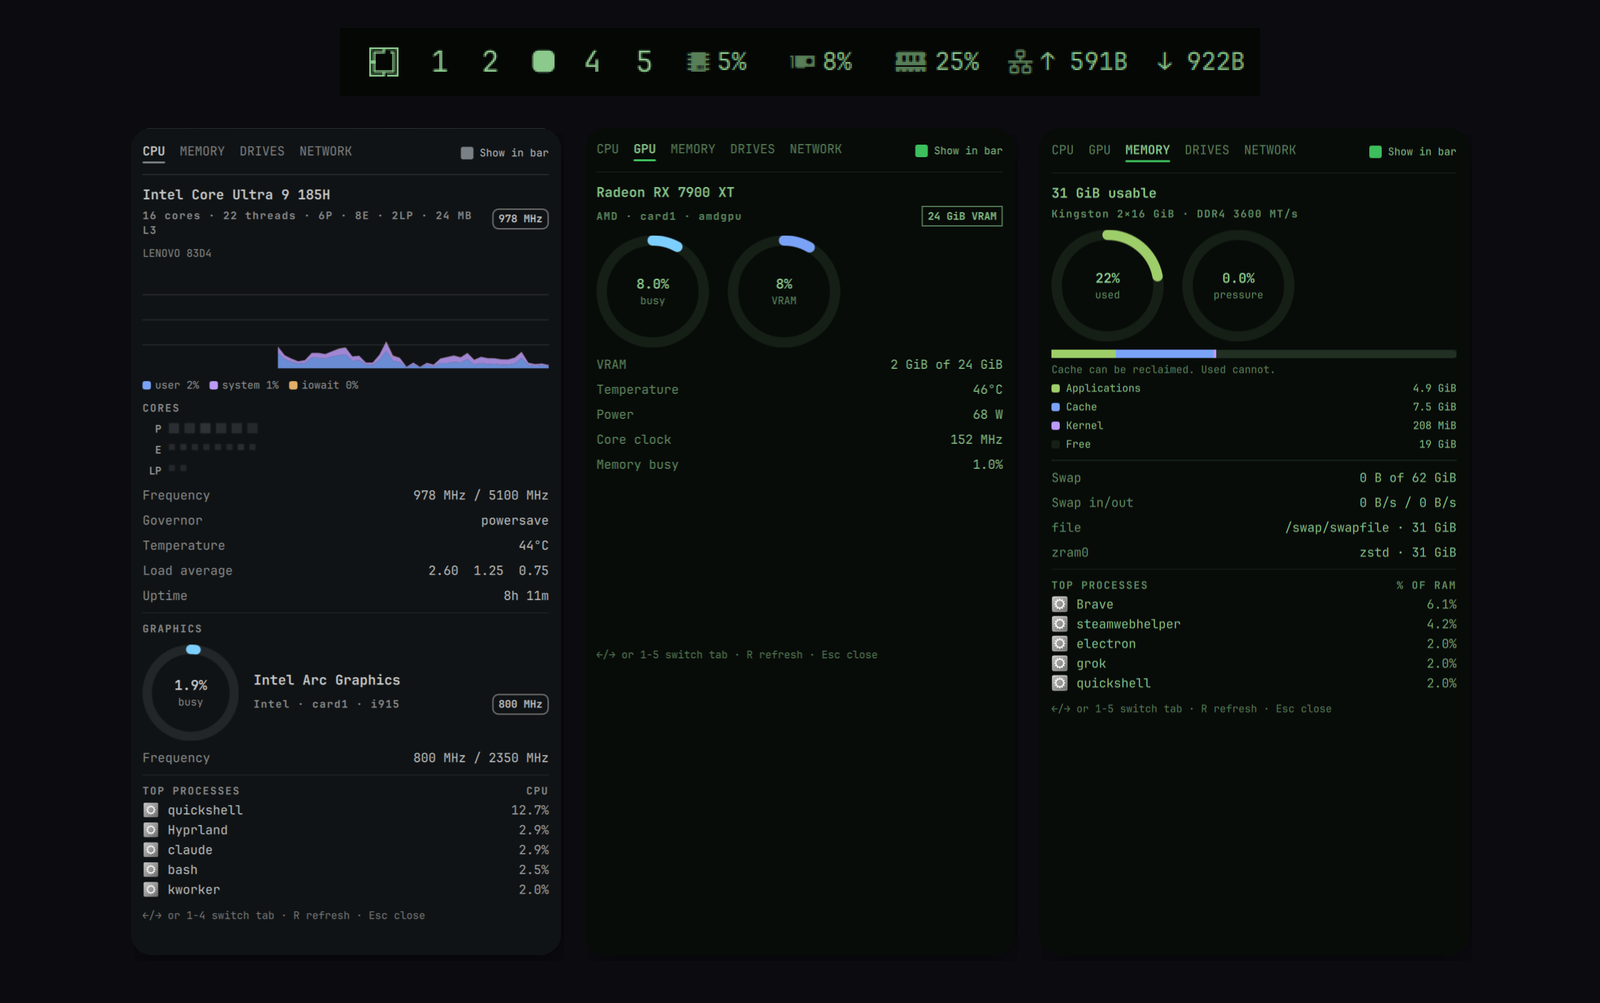
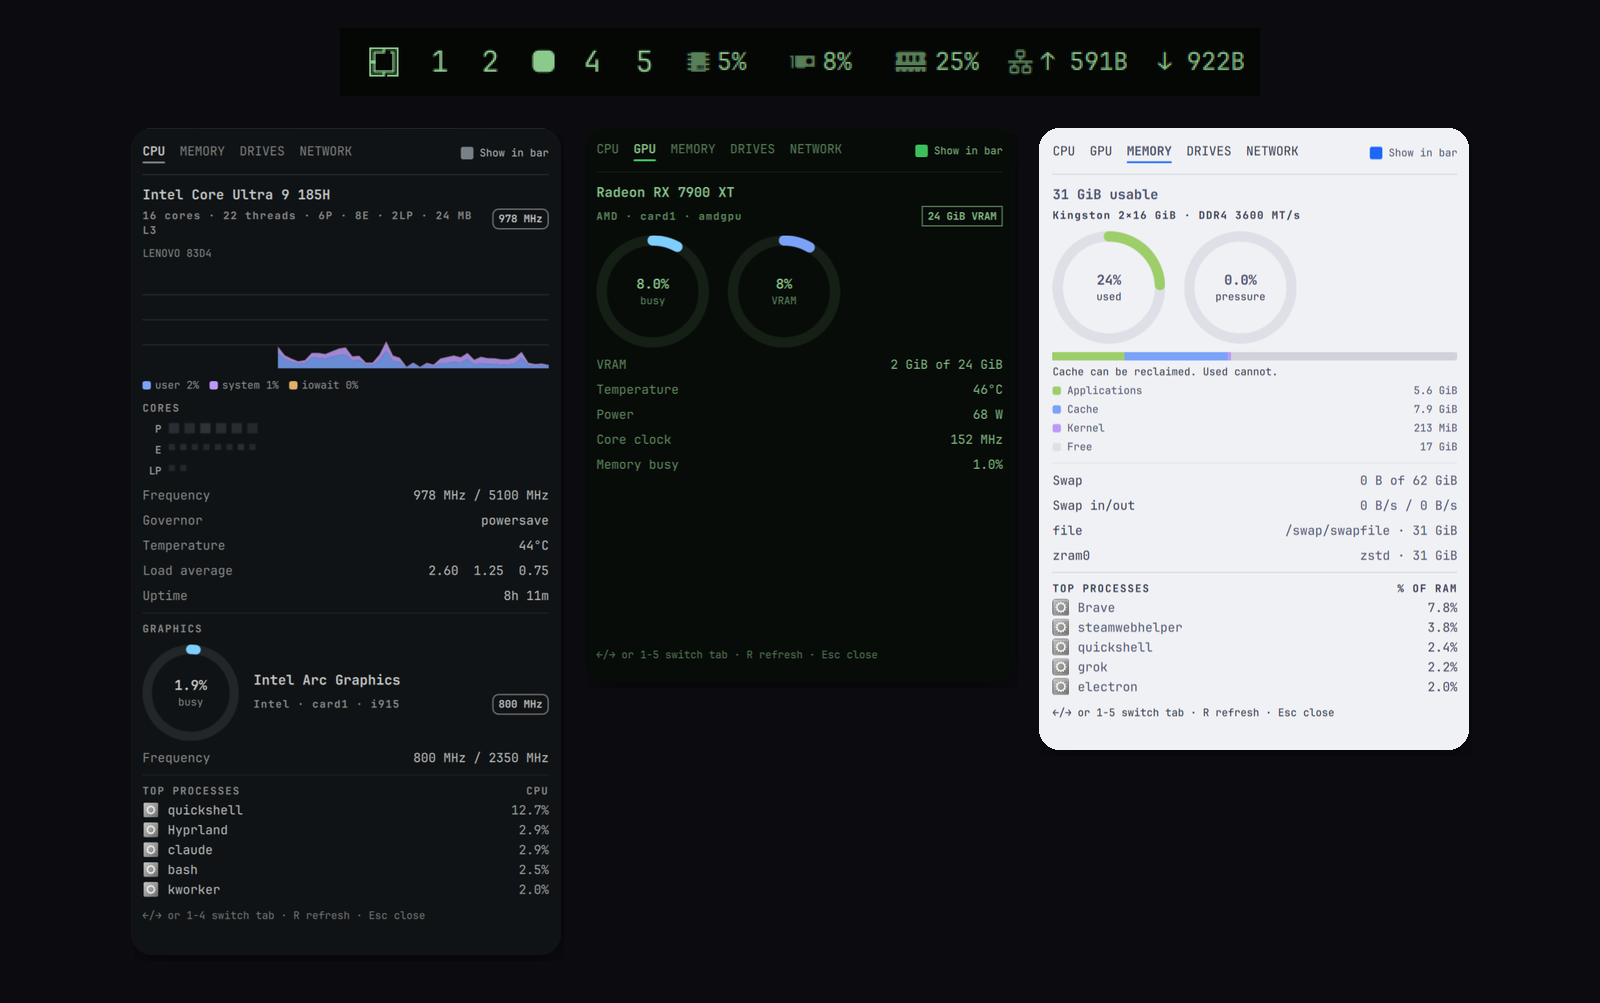
Show three themes in the marketplace hero.
Replace the green Memory panel in preview.png with a light-theme
capture so the composite reads as laptop / desktop / light palette
rather than one green interface. README alt and caption say so.

Changed region(s): [[0.625, 0.1236, 0.9375, 0.7727]]

diff --git a/README.md b/README.md
@@ -1,8 +1,9 @@
 # Quadrant
 
 <p align="center">
-  <img src="preview.png" alt="Quadrant bar plus laptop CPU (Intel Arc on the CPU tab) and desktop GPU and memory tabs">
+  <img src="preview.png" alt="Quadrant on three Omarchy themes: dark laptop CPU with Intel Arc, green desktop GPU, and a light Memory tab">
 </p>
+<p align="center"><em>Same plugin, three themes — Quadrant follows the active Omarchy palette.</em></p>
 
 A unified system monitor for the Omarchy Quattro bar: CPU, GPU, memory, and
 network in one compact bar widget and one tabbed panel — plus a Drives tab.
